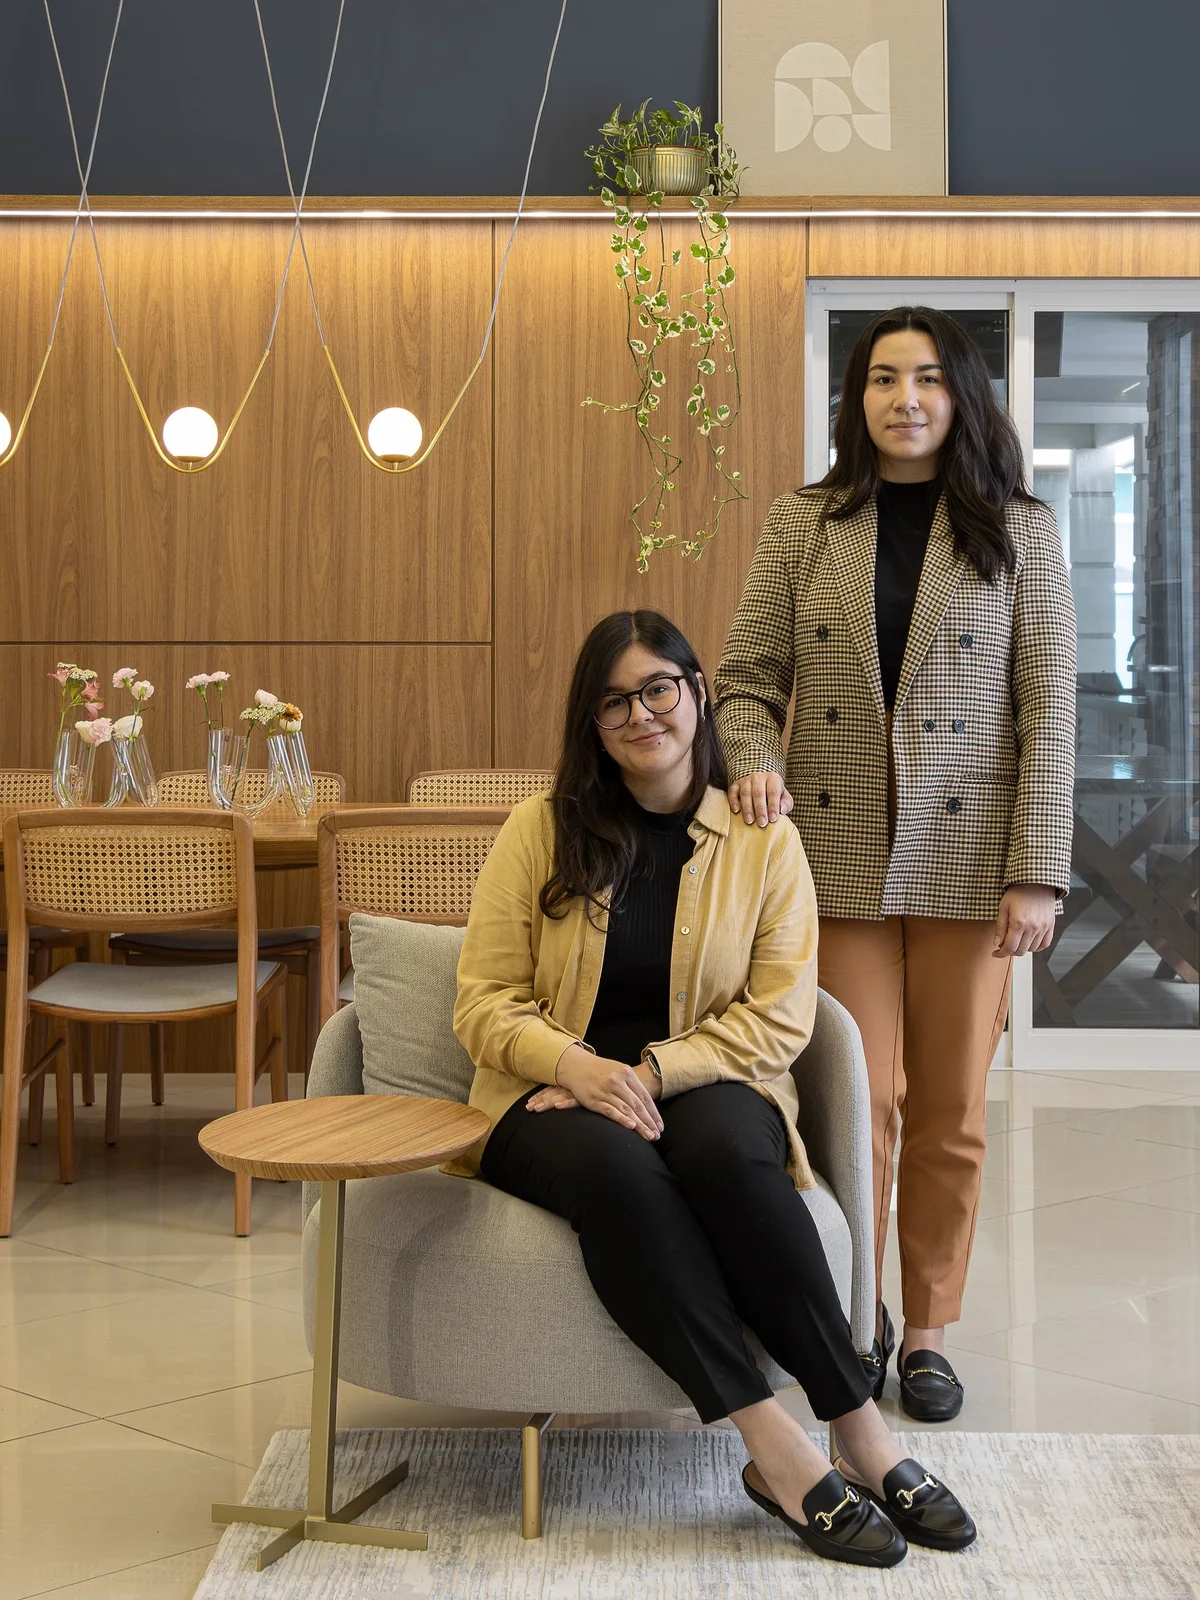
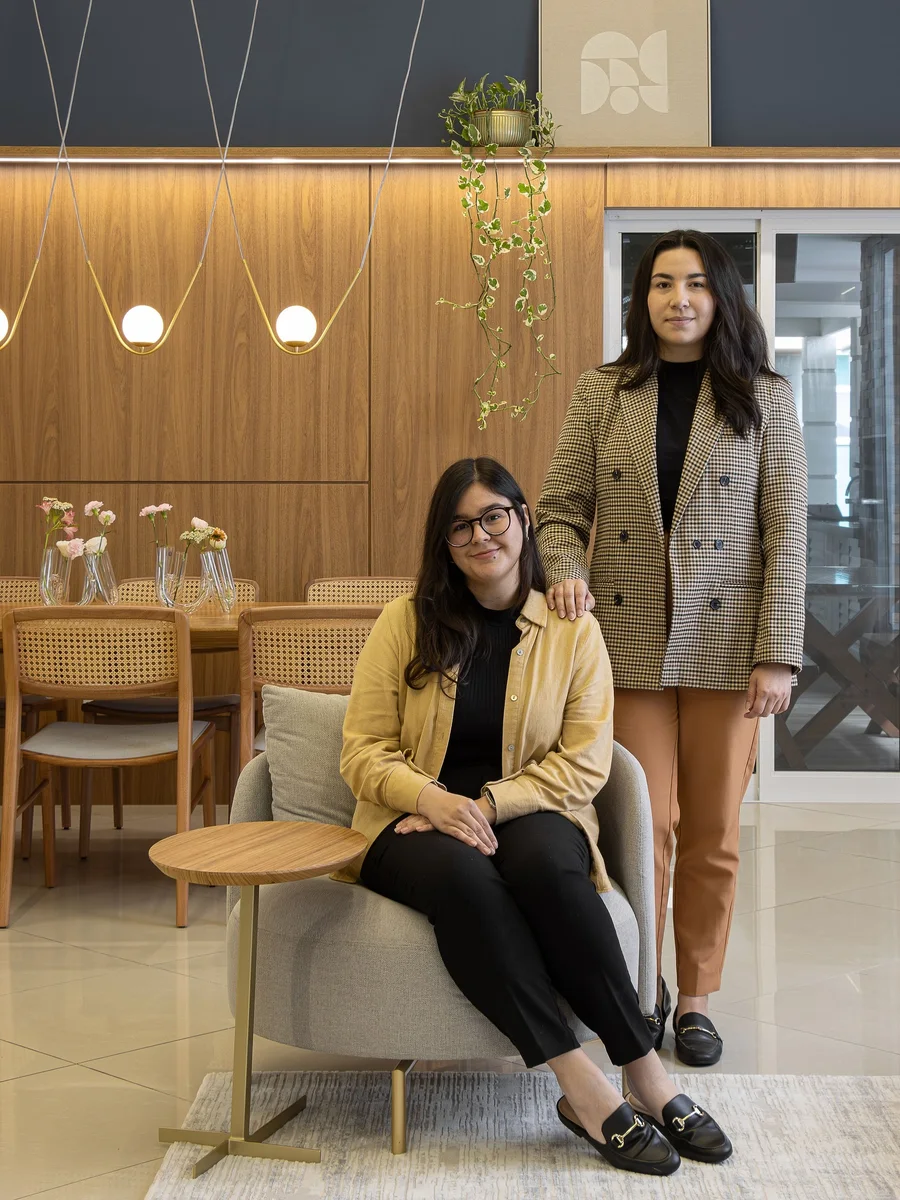
perf: optimize all homepage images to WebP (-79% to -98%)
Convert 8 remaining images from raw JPEGs to <picture> elements with
WebP + progressive JPEG fallback, each resized to display width.

Savings:
  sobre-escritorio: 4.3MB → 102KB WebP (-98%)
  equipe:           828KB → 175KB WebP (-79%)
  hero-apto:        246KB →  93KB WebP (-62%)
  case-lavabo:      388KB →  54KB WebP (-86%)
  case-cozinha:     801KB → 151KB WebP (-81%)
  case-sala-jantar: 690KB → 125KB WebP (-82%)
  case-sapore:      770KB →  77KB WebP (-90%)
  proj-cm:         1.0MB  →  69KB WebP (-93%)

Total homepage payload: ~9.9MB → ~0.85MB (-91%)

diff --git a/index.html b/index.html
@@ -142,7 +142,10 @@
         </div>
       </div>
       <div class="sobre-imagem">
-        <img src="images/portfolio/sobre-escritorio-assis-carrer.jpg" alt="Lounge do escritório Assis Carrer em São José dos Campos — projeto autoral do próprio estúdio" />
+        <picture>
+          <source type="image/webp" srcset="images/portfolio/opt/sobre-escritorio-assis-carrer.webp" />
+          <img src="images/portfolio/opt/sobre-escritorio-assis-carrer.jpg" alt="Lounge do escritório Assis Carrer em São José dos Campos — projeto autoral do próprio estúdio" width="900" height="1350" loading="lazy" decoding="async" />
+        </picture>
         <div class="sobre-badge">
           <img src="images/logo/simbolo.png" alt="" />
         </div>
@@ -160,7 +163,10 @@
       </div>
       <div class="equipe-grid">
         <div class="equipe-imagem">
-          <img src="images/equipe.jpg" alt="Beatriz e Flavia — Assis Carrer Arquitetura" />
+          <picture>
+            <source type="image/webp" srcset="images/portfolio/opt/equipe.webp" />
+            <img src="images/portfolio/opt/equipe.jpg" alt="Beatriz e Flavia — Assis Carrer Arquitetura" width="900" height="1200" loading="lazy" decoding="async" />
+          </picture>
         </div>
         <div class="equipe-text">
           <div class="equipe-cards">
@@ -248,7 +254,10 @@
     <div class="portfolio-grid">
 
       <article class="portfolio-item large">
-        <img src="images/portfolio/hero-apto-integrado-3amb.jpg" alt="Apartamento integrado em São José dos Campos — sala, jantar e cozinha contínuos" loading="lazy" />
+        <picture>
+          <source type="image/webp" srcset="images/portfolio/opt/hero-apto-integrado-3amb.webp" />
+          <img src="images/portfolio/opt/hero-apto-integrado-3amb.jpg" alt="Apartamento integrado em São José dos Campos — sala, jantar e cozinha contínuos" width="1400" height="933" loading="lazy" decoding="async" />
+        </picture>
         <div class="portfolio-overlay">
           <div class="portfolio-info">
             <span class="portfolio-tag">Residencial</span>
@@ -259,7 +268,10 @@
       </article>
 
       <article class="portfolio-item">
-        <img src="images/portfolio/case-lavabo-rose.jpg" alt="Lavabo cimento queimado rosé com ripado madeira — Assis Carrer SJC" loading="lazy" />
+        <picture>
+          <source type="image/webp" srcset="images/portfolio/opt/case-lavabo-rose.webp" />
+          <img src="images/portfolio/opt/case-lavabo-rose.jpg" alt="Lavabo cimento queimado rosé com ripado madeira — Assis Carrer SJC" width="900" height="1125" loading="lazy" decoding="async" />
+        </picture>
         <div class="portfolio-overlay">
           <div class="portfolio-info">
             <span class="portfolio-tag">Residencial · Lavabo</span>
@@ -270,7 +282,10 @@
       </article>
 
       <article class="portfolio-item">
-        <img src="images/portfolio/case-cozinha-preta.jpg" alt="Cozinha preta com madeira em apartamento SJC" loading="lazy" />
+        <picture>
+          <source type="image/webp" srcset="images/portfolio/opt/case-cozinha-preta.webp" />
+          <img src="images/portfolio/opt/case-cozinha-preta.jpg" alt="Cozinha preta com madeira em apartamento SJC" width="900" height="1200" loading="lazy" decoding="async" />
+        </picture>
         <div class="portfolio-overlay">
           <div class="portfolio-info">
             <span class="portfolio-tag">Residencial</span>
@@ -281,7 +296,10 @@
       </article>
 
       <article class="portfolio-item">
-        <img src="images/portfolio/case-sala-jantar-azul.jpg" alt="Sala de jantar com parede azul e ripado em madeira — projeto em SJC" loading="lazy" />
+        <picture>
+          <source type="image/webp" srcset="images/portfolio/opt/case-sala-jantar-azul.webp" />
+          <img src="images/portfolio/opt/case-sala-jantar-azul.jpg" alt="Sala de jantar com parede azul e ripado em madeira — projeto em SJC" width="900" height="1200" loading="lazy" decoding="async" />
+        </picture>
         <div class="portfolio-overlay">
           <div class="portfolio-info">
             <span class="portfolio-tag">Residencial</span>
@@ -292,7 +310,10 @@
       </article>
 
       <article class="portfolio-item">
-        <img src="images/portfolio/case-sapore-greenwall.jpg" alt="Sapore Gelato Caffè em SJC — área de mesas com green wall e pendentes Edison" loading="lazy" />
+        <picture>
+          <source type="image/webp" srcset="images/portfolio/opt/case-sapore-greenwall.webp" />
+          <img src="images/portfolio/opt/case-sapore-greenwall.jpg" alt="Sapore Gelato Caffè em SJC — área de mesas com green wall e pendentes Edison" width="900" height="720" loading="lazy" decoding="async" />
+        </picture>
         <div class="portfolio-overlay">
           <div class="portfolio-info">
             <span class="portfolio-tag">Comercial</span>
@@ -303,7 +324,10 @@
       </article>
 
       <article class="portfolio-item">
-        <img src="images/portfolio/proj-cm-brigadeiros.jpg" alt="CM Brigadeiros — kiosk em shopping projetado pela Assis Carrer" loading="lazy" />
+        <picture>
+          <source type="image/webp" srcset="images/portfolio/opt/proj-cm-brigadeiros.webp" />
+          <img src="images/portfolio/opt/proj-cm-brigadeiros.jpg" alt="CM Brigadeiros — kiosk em shopping projetado pela Assis Carrer" width="1200" height="675" loading="lazy" decoding="async" />
+        </picture>
         <div class="portfolio-overlay">
           <div class="portfolio-info">
             <span class="portfolio-tag">Comercial</span>
